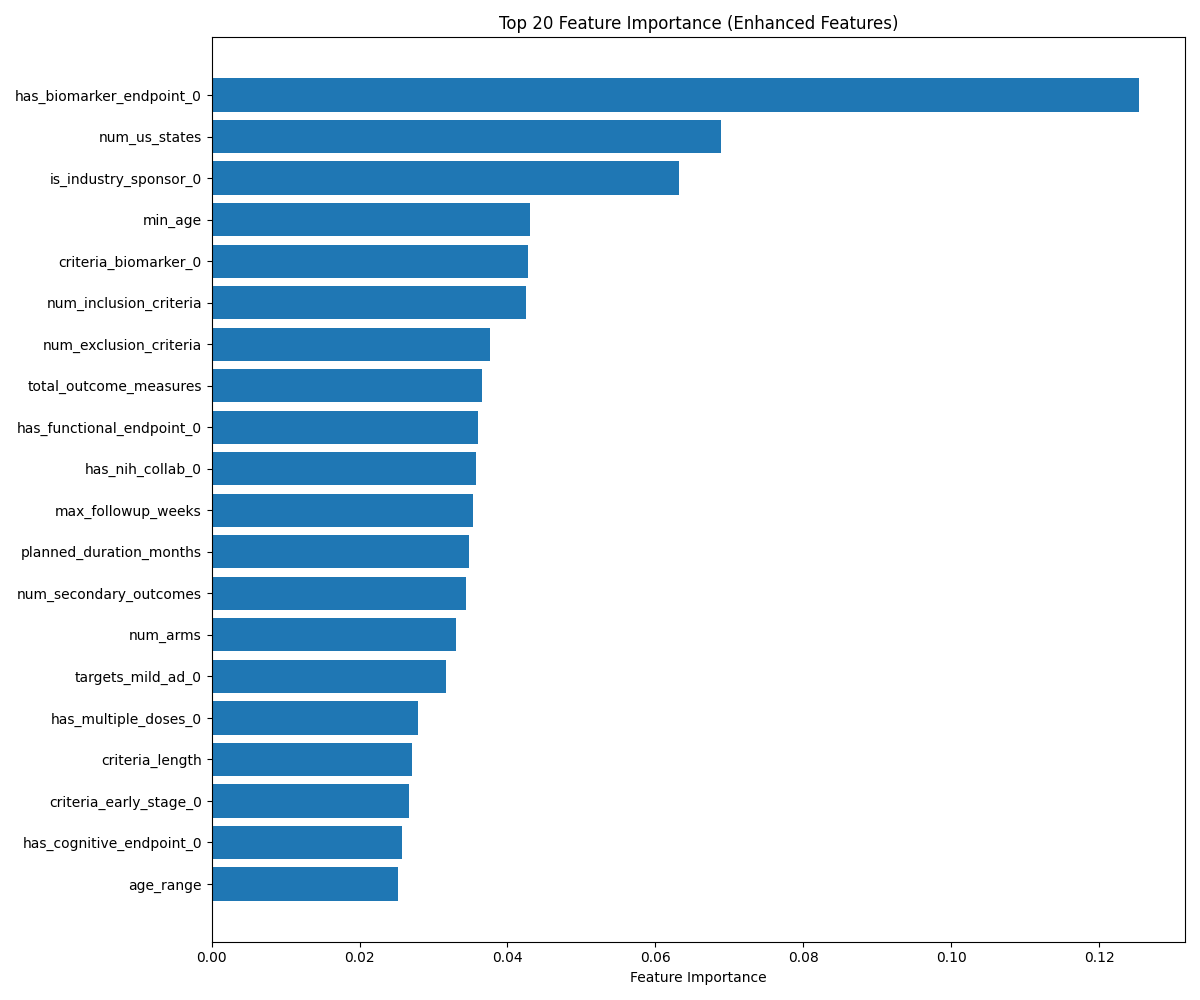
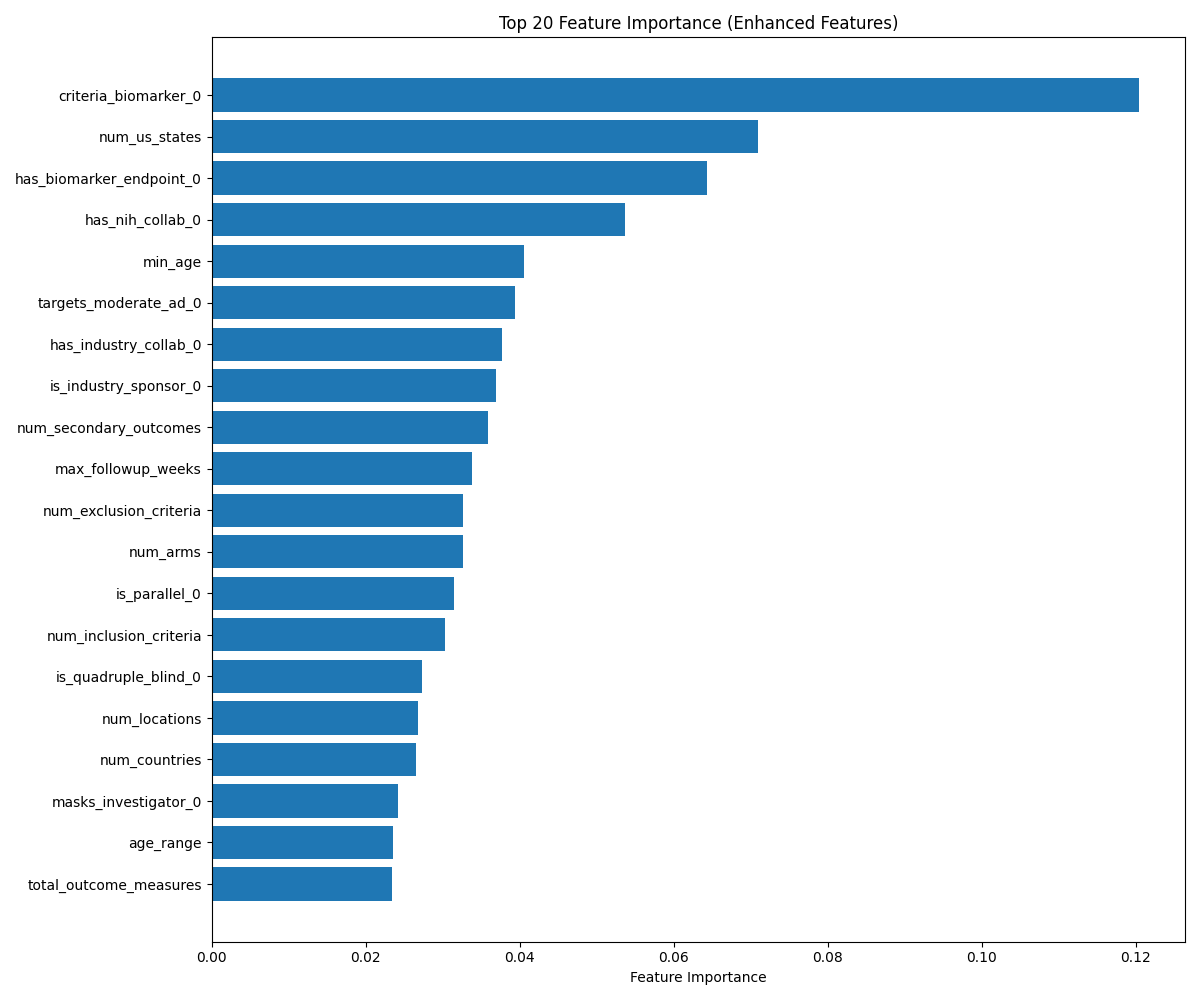
fix on the logic

diff --git a/final/phase_3/yms.py b/final/phase_3/yms.py
@@ -338,12 +338,14 @@ def parse_and_filter_studies(studies_raw):
         match = re.search(r'\d{4}', start_date_str)
         row['start_year'] = int(match.group()) if match else 0
 
-        # Label Generation
+        # --- Label Generation (Target) - FIXED Logic ---
         interventions_module = proto.get("armsInterventionsModule", {}) or {}
         interventions = interventions_module.get("interventions", []) or []
         drug_names_in_study = []
         is_success = 0
         
+        # Check approval status
+        is_approved_drug = False
         for item in interventions:
             if not isinstance(item, dict):
                 continue
@@ -353,9 +355,15 @@ def parse_and_filter_studies(studies_raw):
                     drug_names_in_study.append(name)
                     for approved in APPROVED_DRUGS_SET:
                         if approved in name:
-                            is_success = 1
+                            is_approved_drug = True
                             break
         
+        # Fix: Success requires BOTH approved drug AND completed status
+        if is_approved_drug and overall_status == 'COMPLETED':
+            is_success = 1
+        else:
+            is_success = 0
+            
         row['is_success'] = is_success
         primary_drug_name = drug_names_in_study[0] if drug_names_in_study else ""
 
@@ -708,4 +716,3 @@ if __name__ == "__main__":
 
     except Exception as e:
         print(f"Plotting Error: {e}")
-

diff --git a/final/phase_3/ym.py b/final/phase_3/ym.py
@@ -201,11 +201,13 @@ def parse_and_filter_studies(studies_raw):
         match = re.search(r'\d{4}', start_date_str)
         row['start_year'] = int(match.group()) if match else 0
 
-        # --- Label Generation (Target) ---
+        # --- Label Generation (Target) - FIXED Logic ---
         interventions = proto.get("armsInterventionsModule", {}) .get("interventions", []) or []
         drug_names_in_study = []
         is_success = 0
         
+        # Check if any drug in the study is in the whitelist
+        is_approved_drug = False
         for item in interventions:
             if not isinstance(item, dict): continue
             if item.get("type") == "DRUG":
@@ -214,8 +216,14 @@ def parse_and_filter_studies(studies_raw):
                     drug_names_in_study.append(name)
                     for approved in APPROVED_DRUGS_SET:
                         if approved in name:
-                            is_success = 1
+                            is_approved_drug = True
                             break
+        
+        # Strict Label Logic: Must be Approved Drug AND Completed Trial
+        if is_approved_drug and overall_status == 'COMPLETED':
+            is_success = 1
+        else:
+            is_success = 0
         
         row['is_success'] = is_success
         
